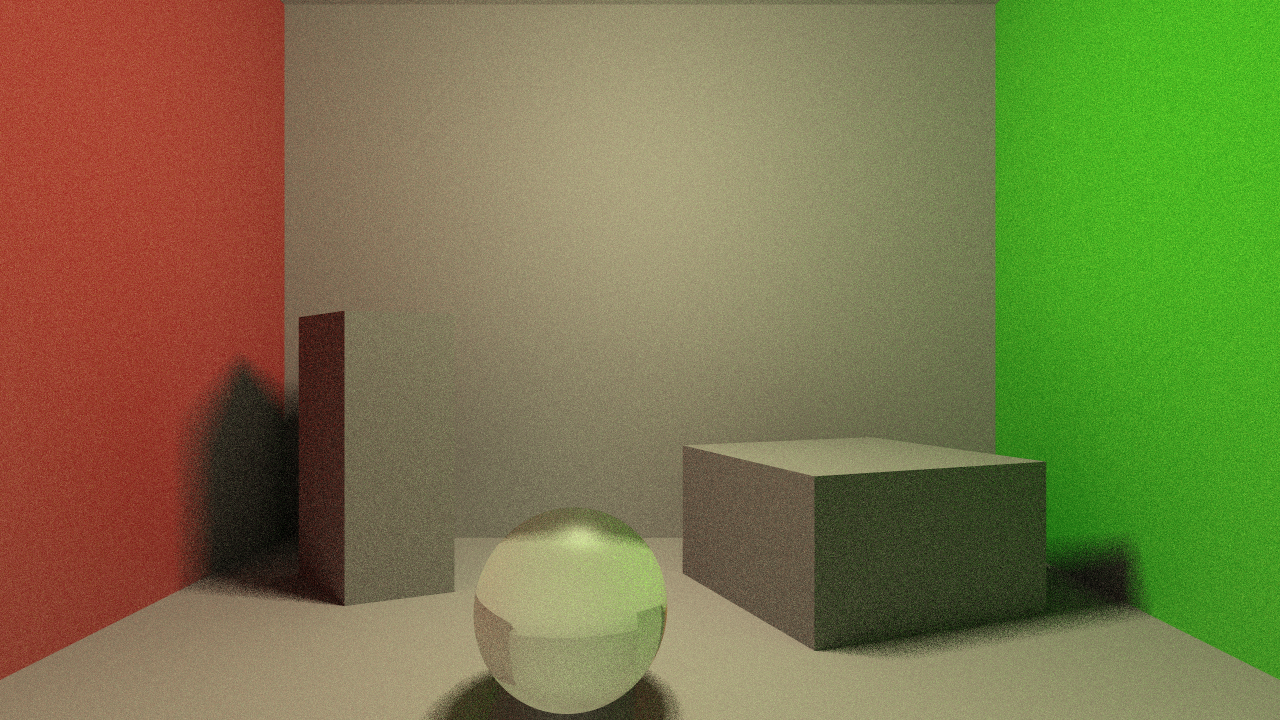
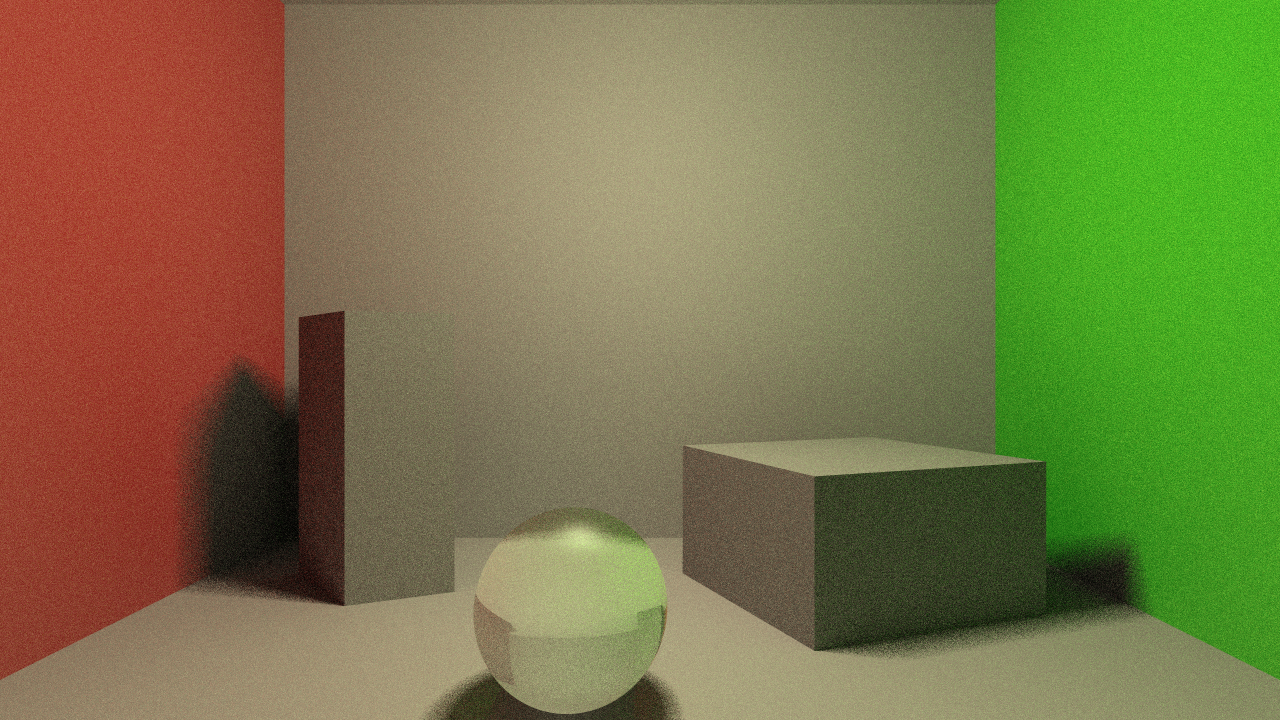
updated the comparison graphics and demonstration

diff --git a/ParallelTracer/RaceWindow.java b/ParallelTracer/RaceWindow.java
@@ -1,0 +1,215 @@
+import javax.swing.JComponent;
+import javax.swing.JFrame;
+import javax.swing.JPanel;
+import javax.swing.KeyStroke;
+import javax.swing.Timer;
+import java.awt.Color;
+import java.awt.Font;
+import java.awt.FontMetrics;
+import java.awt.Graphics;
+import java.awt.Graphics2D;
+import java.awt.GraphicsDevice;
+import java.awt.GraphicsEnvironment;
+import java.awt.Rectangle;
+import java.awt.RenderingHints;
+import java.awt.event.KeyEvent;
+import java.awt.image.BufferedImage;
+import java.util.concurrent.atomic.AtomicInteger;
+
+/**
+ * Full-screen, self-explanatory demo window for the -c race. Shows the SAME scene
+ * being rendered two ways at once — sequentially (one CPU core) on the left and in
+ * parallel (all cores) on the right — with explanatory text above, live per-side
+ * progress/timers under each image, and the final speedup across the bottom.
+ *
+ * Each render writes into its own BufferedImage through a PixelSink (leftSink /
+ * rightSink). A Swing Timer repaints ~30fps rather than repainting per pixel.
+ */
+public class RaceWindow extends JFrame {
+    //palette
+    private static final Color BG        = new Color(0x1E, 0x1E, 0x22);
+    private static final Color TEXT_MAIN = new Color(0xEA, 0xEA, 0xEA);
+    private static final Color TEXT_DIM  = new Color(0x9A, 0x9A, 0xA2);
+    private static final Color SEQ_COLOR = new Color(0xFF, 0xFF, 0xFF); //amber
+    private static final Color PAR_COLOR = new Color(0xFF, 0xFF, 0xFF); //green
+    private static final Color FRAME_LINE = new Color(0x3A, 0x3A, 0x42);
+
+    private final int imgW, imgH;
+    private final int totalPixels;
+    private final int cores;
+    private final long startTime;
+
+    private final BufferedImage leftImage;
+    private final BufferedImage rightImage;
+    private final AtomicInteger leftDone = new AtomicInteger(0);
+    private final AtomicInteger rightDone = new AtomicInteger(0);
+
+    //frozen elapsed time (ms) for each side once it finishes; -1 while still rendering
+    private volatile long leftMillis = -1;
+    private volatile long rightMillis = -1;
+
+    public RaceWindow(int imgW, int imgH, int cores){
+        super("Parallel Processing, Visualized");
+        this.imgW = imgW;
+        this.imgH = imgH;
+        this.cores = cores;
+        this.totalPixels = imgW * imgH;
+        this.startTime = System.currentTimeMillis();
+
+        leftImage = new BufferedImage(imgW, imgH, BufferedImage.TYPE_INT_RGB);
+        rightImage = new BufferedImage(imgW, imgH, BufferedImage.TYPE_INT_RGB);
+
+        JPanel panel = new JPanel(){
+            @Override protected void paintComponent(Graphics g){
+                super.paintComponent(g);
+                draw((Graphics2D) g, getWidth(), getHeight());
+            }
+        };
+        panel.setBackground(BG);
+        setContentPane(panel);
+
+        //ESC exits (undecorated full screen has no close button)
+        setDefaultCloseOperation(JFrame.DISPOSE_ON_CLOSE);
+        panel.registerKeyboardAction(e -> dispose(),
+            KeyStroke.getKeyStroke(KeyEvent.VK_ESCAPE, 0), JComponent.WHEN_IN_FOCUSED_WINDOW);
+
+        //go full screen (fall back to a maximized undecorated window if exclusive mode is refused)
+        setUndecorated(true);
+        GraphicsDevice device = GraphicsEnvironment.getLocalGraphicsEnvironment().getDefaultScreenDevice();
+        boolean fullScreen = false;
+        if(device.isFullScreenSupported()){
+            try { device.setFullScreenWindow(this); fullScreen = true; } catch(Exception ignored){}
+        }
+        if(!fullScreen){
+            setBounds(device.getDefaultConfiguration().getBounds());
+            setVisible(true);
+        }
+
+        Timer repaintTimer = new Timer(33, e -> panel.repaint());
+        repaintTimer.start();
+    }
+
+    //--- pixel sinks handed to the two renders ---
+    public PixelSink leftSink(){
+        return (x, y, c) -> { leftImage.setRGB(x, imgH - 1 - y, c.toARGB()); leftDone.incrementAndGet(); };
+    }
+    public PixelSink rightSink(){
+        return (x, y, c) -> { rightImage.setRGB(x, imgH - 1 - y, c.toARGB()); rightDone.incrementAndGet(); };
+    }
+
+    //freeze a side's final time when its render returns
+    public void markDone(boolean left, long millis){
+        if(left) leftMillis = millis; else rightMillis = millis;
+    }
+
+    private void draw(Graphics2D g2, int W, int H){
+        g2.setRenderingHint(RenderingHints.KEY_ANTIALIASING, RenderingHints.VALUE_ANTIALIAS_ON);
+        g2.setRenderingHint(RenderingHints.KEY_TEXT_ANTIALIASING, RenderingHints.VALUE_TEXT_ANTIALIAS_ON);
+        g2.setRenderingHint(RenderingHints.KEY_INTERPOLATION, RenderingHints.VALUE_INTERPOLATION_BILINEAR);
+        g2.setColor(BG);
+        g2.fillRect(0, 0, W, H);
+
+        int pad = Math.max(24, W / 60);
+
+        //--- title + subtitle (top) ---
+        g2.setColor(TEXT_MAIN);
+        g2.setFont(new Font(Font.SANS_SERIF, Font.BOLD, 42));
+        drawCentered(g2, "Raytracing Engine Demo", W / 2, 62);
+
+        g2.setColor(TEXT_DIM);
+        g2.setFont(new Font(Font.SANS_SERIF, Font.PLAIN, 21));
+        drawCentered(g2, "The left image uses a single CPU core and the right uses"
+             + cores + " cores.", W / 2, 100);
+
+        //ESC hint, top-right
+        g2.setFont(new Font(Font.SANS_SERIF, Font.PLAIN, 15));
+        g2.setColor(FRAME_LINE.brighter());
+        String esc = "ESC to exit";
+        g2.drawString(esc, W - pad - g2.getFontMetrics().stringWidth(esc), 30);
+
+        //--- layout regions ---
+        int footerH = 96;
+        int captionH = 96;
+        int areaTop = 132;
+        int areaBottom = H - footerH;
+        int cellW = (W - 3 * pad) / 2;
+        int availH = areaBottom - areaTop - captionH;
+
+        double scale = Math.min((double) cellW / imgW, (double) availH / imgH);
+        int drawW = (int) (imgW * scale);
+        int drawH = (int) (imgH * scale);
+
+        int leftCellX = pad;
+        int rightCellX = pad + cellW + pad;
+        int leftImgX = leftCellX + (cellW - drawW) / 2;
+        int rightImgX = rightCellX + (cellW - drawW) / 2;
+        int imgY = areaTop + (availH - drawH) / 2;
+
+        //--- the two images ---
+        g2.drawImage(leftImage, leftImgX, imgY, drawW, drawH, null);
+        g2.drawImage(rightImage, rightImgX, imgY, drawW, drawH, null);
+        g2.setColor(FRAME_LINE);
+        g2.drawRect(leftImgX, imgY, drawW, drawH);
+        g2.drawRect(rightImgX, imgY, drawW, drawH);
+
+        //--- captions under each image ---
+        long now = System.currentTimeMillis();
+        int captionY = imgY + drawH + 34;
+        drawCaption(g2, leftCellX + cellW / 2, captionY, "SEQUENTIAL", SEQ_COLOR,
+            "1 CPU core · one pixel at a time", leftDone.get(), leftMillis, now);
+        drawCaption(g2, rightCellX + cellW / 2, captionY, "PARALLEL", PAR_COLOR,
+            "all " + cores + " CPU cores · at once", rightDone.get(), rightMillis, now);
+
+        //--- footer (state-driven) ---
+        boolean lDone = leftMillis >= 0, rDone = rightMillis >= 0;
+        String footer;
+        Color footerColor;
+        Font footerFont;
+        if(lDone && rDone){
+            double sp = (double) leftMillis / rightMillis;
+            footer = String.format("Parallel finished %.1f× faster  |  %.1fs  vs  %.1fs sequential",
+                sp, rightMillis / 1000.0, leftMillis / 1000.0);
+            footerColor = PAR_COLOR;
+            footerFont = new Font(Font.SANS_SERIF, Font.BOLD, 32);
+        } else if(rDone){
+            footer = String.format("Parallel finished in %.1fs  |  sequential is still rendering  (%.0fs)…",
+                rightMillis / 1000.0, (now - startTime) / 1000.0);
+            footerColor = TEXT_MAIN;
+            footerFont = new Font(Font.SANS_SERIF, Font.PLAIN, 24);
+        } else {
+            footer = "Rendering…";
+            footerColor = TEXT_DIM;
+            footerFont = new Font(Font.SANS_SERIF, Font.PLAIN, 24);
+        }
+        g2.setColor(footerColor);
+        g2.setFont(footerFont);
+        drawCentered(g2, footer, W / 2, H - footerH / 2 + 10);
+    }
+
+    private void drawCaption(Graphics2D g2, int centerX, int y, String label, Color labelColor,
+                             String sub, int done, long doneMillis, long now){
+        g2.setColor(labelColor);
+        g2.setFont(new Font(Font.SANS_SERIF, Font.BOLD, 25));
+        drawCentered(g2, label, centerX, y);
+
+        g2.setColor(TEXT_DIM);
+        g2.setFont(new Font(Font.SANS_SERIF, Font.PLAIN, 17));
+        drawCentered(g2, sub, centerX, y + 25);
+
+        String status;
+        if(doneMillis >= 0){
+            status = String.format("✓ done in %.1fs", doneMillis / 1000.0);
+        } else {
+            int pct = (int) (100.0 * done / totalPixels);
+            status = String.format("%d%%  ·  %.0fs", pct, (now - startTime) / 1000.0);
+        }
+        g2.setColor(doneMillis >= 0 ? labelColor : TEXT_MAIN);
+        g2.setFont(new Font(Font.SANS_SERIF, Font.BOLD, 20));
+        drawCentered(g2, status, centerX, y + 52);
+    }
+
+    private void drawCentered(Graphics2D g2, String s, int centerX, int y){
+        FontMetrics fm = g2.getFontMetrics();
+        g2.drawString(s, centerX - fm.stringWidth(s) / 2, y);
+    }
+}

diff --git a/ParallelTracer/RaytracerDriver.java b/ParallelTracer/RaytracerDriver.java
@@ -71,9 +71,9 @@ public class RaytracerDriver {
     }
 
     /**
-     * -c demo mode: render the same scene sequentially and in parallel AT THE SAME TIME, each into
-     * its own side-by-side preview window, so you can watch the parallel render visibly race ahead.
-     * Prints each render's wall-clock time and the resulting speedup.
+     * -c demo mode: render the same scene sequentially and in parallel AT THE SAME TIME, both inside
+     * ONE full-screen window (RaceWindow) with explanatory text, so a first-time viewer immediately
+     * sees the parallel render race ahead and finish first. Prints the wall-clock times and speedup.
      *
      * Note: because both renders run concurrently they share the CPU cores, so the times are an
      * illustrative demo rather than a rigorous benchmark. Each render gets its own Scene instance so
@@ -82,15 +82,14 @@ public class RaytracerDriver {
     public static void renderRace(int xResolution, int yResolution){
         System.out.println("Racing sequential vs parallel render...");
 
+        int cores = Runtime.getRuntime().availableProcessors();
+
         //Two independent scenes so the concurrent renders share no mutable state.
         Scene seqScene = SceneCreator.cornellBox(xResolution, yResolution);
         Scene parScene = SceneCreator.cornellBox(xResolution, yResolution);
 
-        //Side-by-side windows: sequential on the left, parallel on the right.
-        PreviewWindow seqWindow = new PreviewWindow(xResolution, yResolution, "Sequential");
-        PreviewWindow parWindow = new PreviewWindow(xResolution, yResolution, "Parallel");
-        seqWindow.setLocation(0, 0);
-        parWindow.setLocation(xResolution, 0);
+        //One full-screen window hosting both renders side by side.
+        RaceWindow window = new RaceWindow(xResolution, yResolution, cores);
 
         //Result holders written from the worker threads.
         final long[] seqMillis = new long[1];
@@ -99,15 +98,15 @@ public class RaytracerDriver {
 
         Thread seqThread = new Thread(() -> {
             long t = System.currentTimeMillis();
-            seqScene.render(xResolution, yResolution, 16, 2, seqWindow, false);
+            seqScene.render(xResolution, yResolution, 16, 2, window.leftSink(), false);
             seqMillis[0] = System.currentTimeMillis() - t;
-            seqWindow.finish();
+            window.markDone(true, seqMillis[0]);
         });
         Thread parThread = new Thread(() -> {
             long t = System.currentTimeMillis();
-            parResult[0] = parScene.render(xResolution, yResolution, 16, 2, parWindow, true);
+            parResult[0] = parScene.render(xResolution, yResolution, 16, 2, window.rightSink(), true);
             parMillis[0] = System.currentTimeMillis() - t;
-            parWindow.finish();
+            window.markDone(false, parMillis[0]);
         });
 
         //Start together so it's a real race.
@@ -123,7 +122,7 @@ public class RaytracerDriver {
         System.out.printf("Sequential: %.1fs | Parallel: %.1fs | Speedup: %.1fx%n",
             seqMillis[0]/1000.0, parMillis[0]/1000.0, (double)seqMillis[0]/parMillis[0]);
 
-        //Save the parallel result (both windows stay open so you can compare the finished images + times).
+        //Save the parallel result (the window stays open so you can compare the finished images + times).
         saveImage("CornellBox.png", parResult[0]);
         System.out.println("Done");
     }

diff --git a/ParallelTracer/Scene.java b/ParallelTracer/Scene.java
@@ -118,14 +118,15 @@ public class Scene
         return this.render(xRes, yRes, numSamples, ambientBlur, null, true);
     }
 
-    //same as above, but also pushes each finished pixel to a live preview window as it's computed
-    public ColorImage render(int xRes, int yRes, int numSamples, double ambientBlur, PreviewWindow preview){
+    //same as above, but also pushes each finished pixel to a live preview sink as it's computed
+    public ColorImage render(int xRes, int yRes, int numSamples, double ambientBlur, PixelSink preview){
         return this.render(xRes, yRes, numSamples, ambientBlur, preview, true);
     }
 
     //full version: "parallel" toggles between parallel-stream and plain sequential rendering.
     //Sequential mode exists so the -c flag can race the two approaches side by side and show the speedup.
-    public ColorImage render(int xRes, int yRes, int numSamples, double ambientBlur, PreviewWindow preview, boolean parallel){
+    //"preview" is any PixelSink (a live window, one side of the -c race, or null for headless).
+    public ColorImage render(int xRes, int yRes, int numSamples, double ambientBlur, PixelSink preview, boolean parallel){
         //create an image frame with corresponding resolution
         ColorImage frame = new ColorImage(xRes, yRes);
 
@@ -159,7 +160,7 @@ public class Scene
         return frame;
     }
 
-    public void makeImage(ColorImage frame, int x, int y, int samples, int xRes, int yRes, double ambientBlur, PreviewWindow preview){
+    public void makeImage(ColorImage frame, int x, int y, int samples, int xRes, int yRes, double ambientBlur, PixelSink preview){
         int aaResolution = (int)Math.sqrt(samples);
         Color c = new Color(0,0,0);
         

diff --git a/ParallelTracer/PreviewWindow.java b/ParallelTracer/PreviewWindow.java
@@ -14,7 +14,7 @@ import java.util.concurrent.atomic.AtomicInteger;
  * The title carries a caller-supplied label plus a live progress % and elapsed
  * timer, which is what makes the -c sequential-vs-parallel race legible.
  */
-public class PreviewWindow extends JFrame {
+public class PreviewWindow extends JFrame implements PixelSink {
     private final BufferedImage image;
     private final int height;
     private final int totalPixels;

diff --git a/ParallelTracer/PixelSink.java b/ParallelTracer/PixelSink.java
@@ -1,0 +1,9 @@
+/**
+ * A destination for finished pixels as the render computes them. Decouples the render
+ * loop (Scene.makeImage) from any specific window, so a single window can host two
+ * renders at once by handing each one its own sink (see RaceWindow), while the -v
+ * single preview (PreviewWindow) is just another implementation.
+ */
+public interface PixelSink {
+    void setPixel(int x, int y, Color c);
+}
